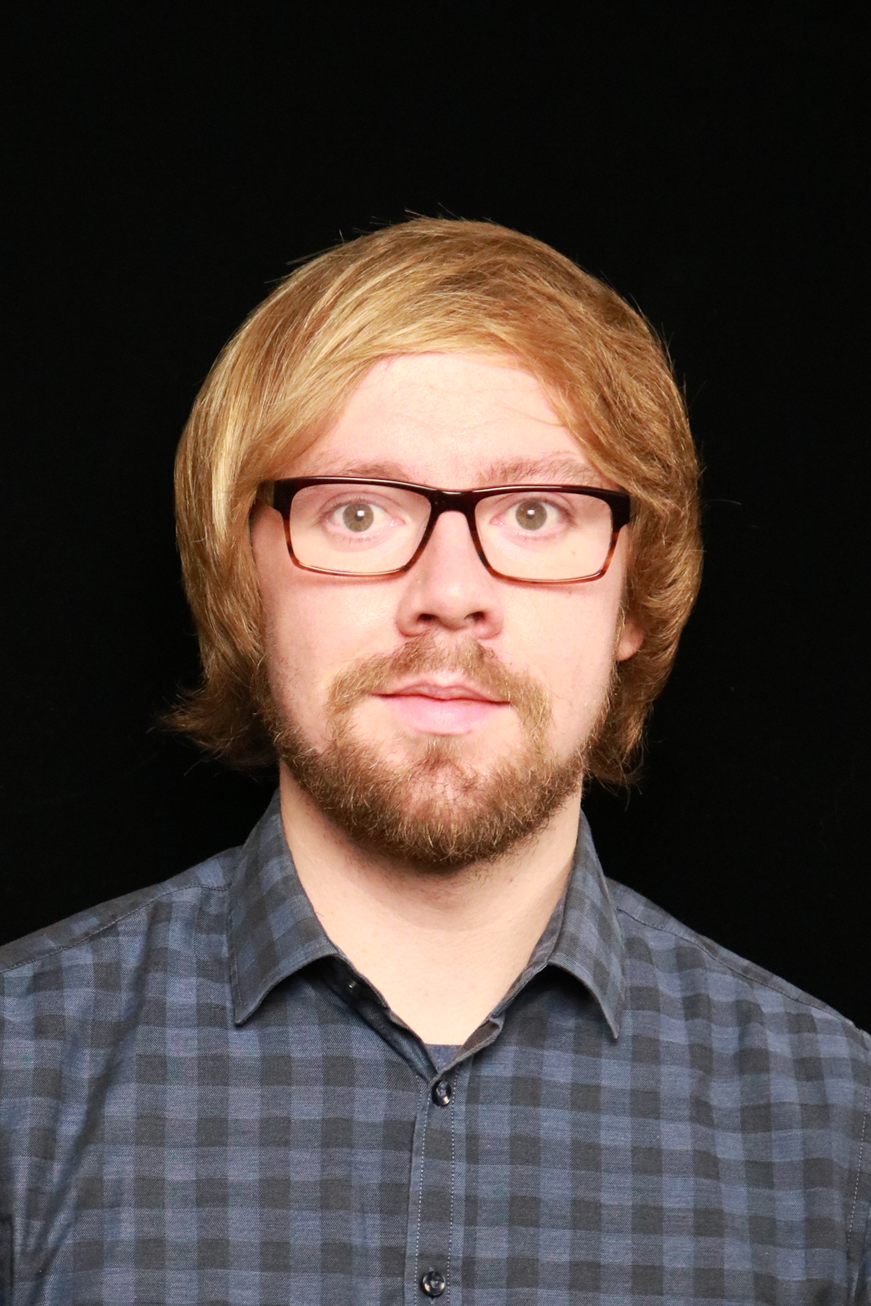
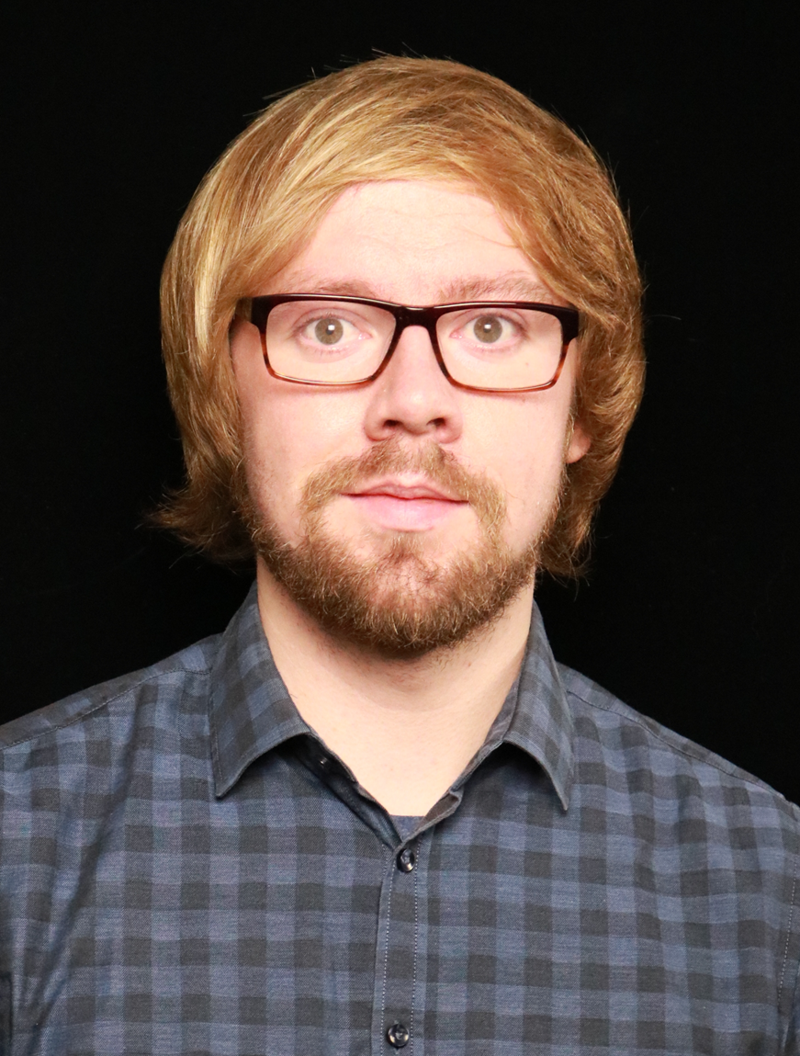
[GE-2024] add speaker and resize image

diff --git a/content/events/2024-geneva/speakers/olivier-boder.md b/content/events/2024-geneva/speakers/olivier-boder.md
@@ -1,6 +1,6 @@
 +++
 Title = "Olivier Boder"
-image = "olivier-boder.jpeg"
+image = "olivier-boder.png"
 Linkedin = "https://www.linkedin.com/in/olivier-boder/"
 type = "speaker"
 linktitle = "olivier-boder"
